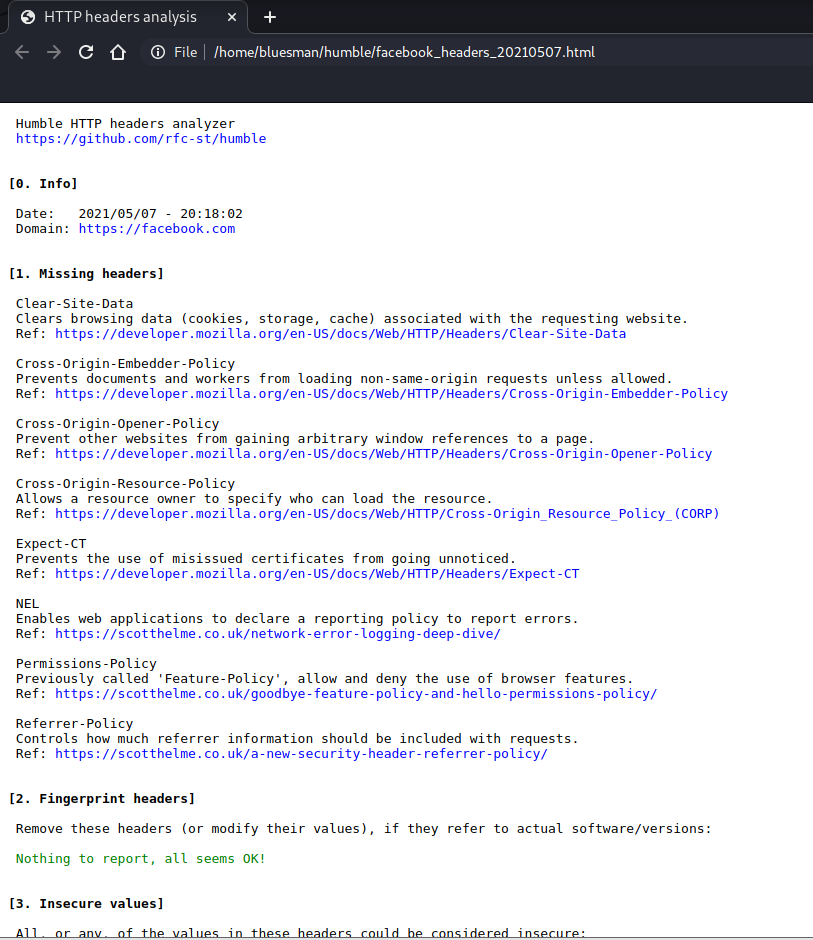
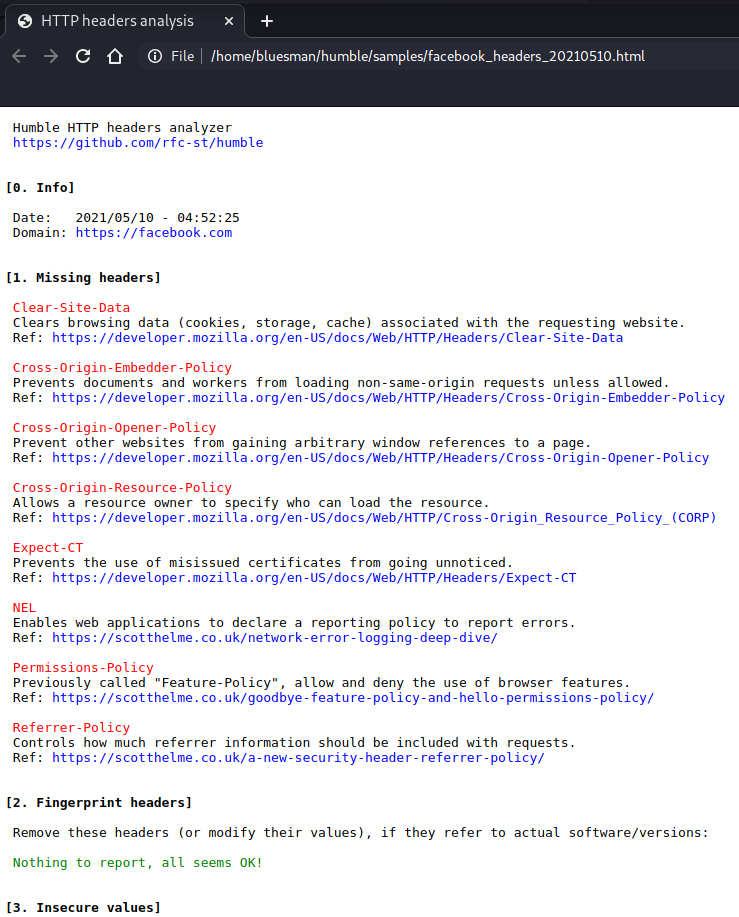
KO styles for HTML export.

Changed region(s): [[0.0, 0.0, 1.0, 1.0], [0.9337, 0.4275, 0.9648, 0.458]]

diff --git a/samples/facebook_headers_20210510.html b/samples/facebook_headers_20210510.html
@@ -1,4 +1,4 @@
-<!DOCTYPE html><html lang="en"><head><meta charset="utf-8"/>             <title>HTTP headers analysis</title><style>pre {overflow-x: auto;white-space: pre-wrap;white-space: -moz-pre-wrap;white-space: -pre-wrap;white-space: -o-pre-wrap;word-wrap: break-word; font-size: 13px;}               a {color: blue; text-decoration: none;} .ok {color: green;}             </style></head><body><pre>
+<!DOCTYPE html><html lang="en"><head><meta charset="utf-8"/>             <title>HTTP headers analysis</title><style>pre {overflow-x: auto;white-space: pre-wrap;white-space: -moz-pre-wrap;white-space: -pre-wrap;white-space: -o-pre-wrap;word-wrap: break-word; font-size: 13px;}               a {color: blue; text-decoration: none;} .ok {color: green;}             .header {color: #660033;} .ko {color: red;} </style></head><body><pre>
  Humble HTTP headers analyzer
 <a href=" https://github.com/rfc-st/humble
 "> https://github.com/rfc-st/humble
@@ -6,50 +6,50 @@
 
 <strong>[0. Info]
 </strong>
- Date:   2021/05/07 - 20:38:37
+ Date:   2021/05/10 - 04:52:25
  Domain: <a href="https://facebook.com
 ">https://facebook.com
 </a>
 
 <strong>[1. Missing headers]
 </strong>
- Clear-Site-Data
- Clears browsing data (cookies, storage, cache) associated with the requesting website.
+<span class="ko"> Clear-Site-Data
+</span> Clears browsing data (cookies, storage, cache) associated with the requesting website.
  Ref: <a href="https://developer.mozilla.org/en-US/docs/Web/HTTP/Headers/Clear-Site-Data
 ">https://developer.mozilla.org/en-US/docs/Web/HTTP/Headers/Clear-Site-Data
 </a>
- Cross-Origin-Embedder-Policy
- Prevents documents and workers from loading non-same-origin requests unless allowed.
+<span class="ko"> Cross-Origin-Embedder-Policy
+</span> Prevents documents and workers from loading non-same-origin requests unless allowed.
  Ref: <a href="https://developer.mozilla.org/en-US/docs/Web/HTTP/Headers/Cross-Origin-Embedder-Policy
 ">https://developer.mozilla.org/en-US/docs/Web/HTTP/Headers/Cross-Origin-Embedder-Policy
 </a>
- Cross-Origin-Opener-Policy
- Prevent other websites from gaining arbitrary window references to a page.
+<span class="ko"> Cross-Origin-Opener-Policy
+</span> Prevent other websites from gaining arbitrary window references to a page.
  Ref: <a href="https://developer.mozilla.org/en-US/docs/Web/HTTP/Headers/Cross-Origin-Opener-Policy
 ">https://developer.mozilla.org/en-US/docs/Web/HTTP/Headers/Cross-Origin-Opener-Policy
 </a>
- Cross-Origin-Resource-Policy
- Allows a resource owner to specify who can load the resource.
+<span class="ko"> Cross-Origin-Resource-Policy
+</span> Allows a resource owner to specify who can load the resource.
  Ref: <a href="https://developer.mozilla.org/en-US/docs/Web/HTTP/Cross-Origin_Resource_Policy_(CORP)
 ">https://developer.mozilla.org/en-US/docs/Web/HTTP/Cross-Origin_Resource_Policy_(CORP)
 </a>
- Expect-CT
- Prevents the use of misissued certificates from going unnoticed.
+<span class="ko"> Expect-CT
+</span> Prevents the use of misissued certificates from going unnoticed.
  Ref: <a href="https://developer.mozilla.org/en-US/docs/Web/HTTP/Headers/Expect-CT
 ">https://developer.mozilla.org/en-US/docs/Web/HTTP/Headers/Expect-CT
 </a>
- NEL
- Enables web applications to declare a reporting policy to report errors.
+<span class="ko"> NEL
+</span> Enables web applications to declare a reporting policy to report errors.
  Ref: <a href="https://scotthelme.co.uk/network-error-logging-deep-dive/
 ">https://scotthelme.co.uk/network-error-logging-deep-dive/
 </a>
- Permissions-Policy
- Previously called 'Feature-Policy', allow and deny the use of browser features.
+<span class="ko"> Permissions-Policy
+</span> Previously called "Feature-Policy", allow and deny the use of browser features.
  Ref: <a href="https://scotthelme.co.uk/goodbye-feature-policy-and-hello-permissions-policy/
 ">https://scotthelme.co.uk/goodbye-feature-policy-and-hello-permissions-policy/
 </a>
- Referrer-Policy
- Controls how much referrer information should be included with requests.
+<span class="ko"> Referrer-Policy
+</span> Controls how much referrer information should be included with requests.
  Ref: <a href="https://scotthelme.co.uk/a-new-security-header-referrer-policy/
 ">https://scotthelme.co.uk/a-new-security-header-referrer-policy/
 </a>
@@ -65,11 +65,11 @@
 </strong>
  All, or any, of the values in these headers could be considered insecure:
 
- Content-Security-Policy
- Remove 'unsafe-inline' and/or 'unsafe-eval' whenever possible.
+<span class="ko"> Content-Security-Policy
+</span> Remove 'unsafe-inline' and/or 'unsafe-eval' whenever possible.
 
- Strict-Transport-Security
- Add 'includeSubDomains' and define 'max-age' equal or greater than 31536000 (1 year).
+<span class="ko"> Strict-Transport-Security
+</span> Add 'includeSubDomains' and define 'max-age' equal or greater than 31536000 (1 year).
 
 
 <strong>[4. Empty values]

diff --git a/humble.py b/humble.py
@@ -345,6 +345,12 @@ print_section("[3. Insecure values]\n")
 if not args.brief:
     print_detail("[aisc]", "a")
 
+list_ins = ['Access-Control-Allow-Origin', 'Etag', 'HTTP instead HTTPS',
+            'Public-Key-Pins', 'Set-Cookie', 'Server-Timing',
+            'Timing-Allow-Origin', 'X-DNS-Prefetch-Control',
+            'X-Permitted-Cross-Domain-Policies', 'X-Pingback',
+            'X-Runtime', 'X-XSS-Protection']
+
 if 'Access-Control-Allow-Origin' in headers:
     list_access = ['*', 'null']
     if any(elem.lower() in headers["Access-Control-Allow-Origin"].lower() for
@@ -472,7 +478,7 @@ if 'X-Frame-Options' in headers:
             print(" The value '" + headers["X-Frame-Options"] + "' is \
 invalid. Use only 'DENY', 'SAMEORIGIN' or 'ALLOW-FROM'.\n Better yet: \
 replace this header with the 'frame-ancestors' directive from the \
-Content-Security-Policy header. ")
+""Content-Security-Policy"" header. ")
             print("")
         i_cnt += 1
 
@@ -575,7 +581,7 @@ elif args.output == 'html':
              'white-space: -pre-wrap;white-space: -o-pre-wrap;'\
              'word-wrap: break-word; font-size: 13px;} \
               a {color: blue; text-decoration: none;} .ok {color: green;}\
-             .header {color: #660033;} </style></head>'
+             .header {color: #660033;} .ko {color: red;} </style></head>'
     body = '<body><pre>'
     footer = '</pre></body></html>'
 
@@ -586,6 +592,9 @@ elif args.output == 'html':
         output.write(str(body))
 
         for line in input:
+
+            # TO-DO: simplify via regexp?
+
             if 'rfc-st' in line:
                 output.write('<a href="' + line + '">' + line + '</a>')
             elif 'Domain:' in line:
@@ -604,6 +613,18 @@ elif args.output == 'html':
                         line = line.replace(line[0: line.index(":")],
                                             '<span class="header">' +
                                             line[0: line.index(":")] +
+                                            '</span>')
+                for i in list_miss:
+                    if i in line and ':' not in line and '"' not in line:
+                        line = line.replace(line, '<span class="ko">' + line +
+                                            '</span>')
+                for i in list_fng:
+                    if i in line and ':' not in line and '"' not in line:
+                        line = line.replace(line, '<span class="ko">' + line +
+                                            '</span>')
+                for i in list_ins:
+                    if i in line and ':' not in line and '"' not in line:
+                        line = line.replace(line, '<span class="ko">' + line +
                                             '</span>')
                 output.write(line)
         output.write(footer)

diff --git a/README.md b/README.md
@@ -34,7 +34,7 @@ HTTP Headers Analyzer<br />
 <img src="https://github.com/rfc-st/humble/blob/master/screenshots/humble_pdf_s.PNG" alt="Export analysis to PDF" width=70% height=70%>
 </p>
 <br />
-.: Analysis exported to HTML. <a href="https://htmlpreview.github.io/?https://github.com/rfc-st/humble/blob/master/samples/facebook_headers_20210507.html">Example.</a><br />
+.: Analysis exported to HTML. <a href="https://htmlpreview.github.io/?https://github.com/rfc-st/humble/blob/master/samples/facebook_headers_20210510.html">Example.</a><br />
 <p></p>
 <p align="center">
 <img src="https://github.com/rfc-st/humble/blob/master/screenshots/humble_html_s.PNG" alt="Export analysis to HTML" width=70% height=70%>
